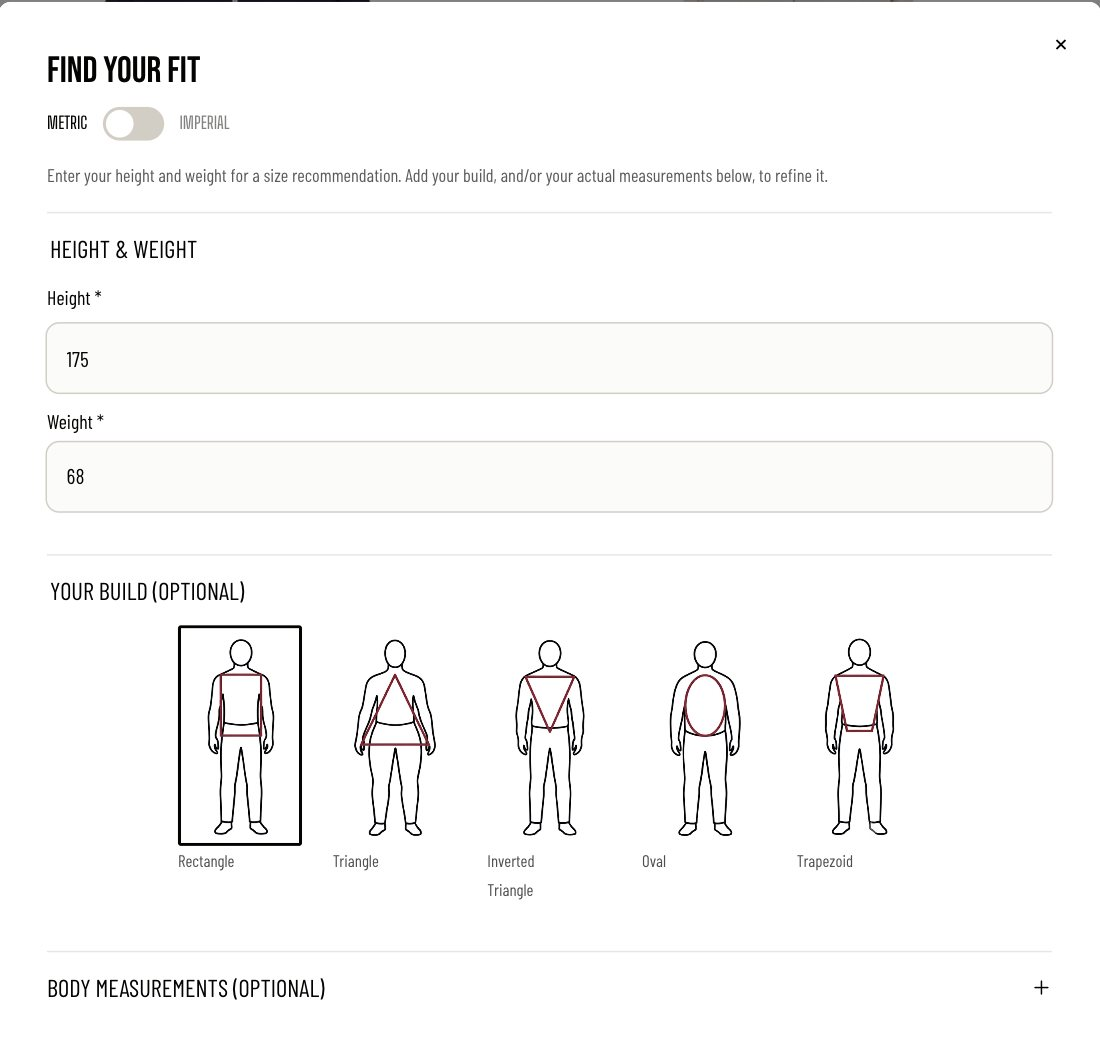
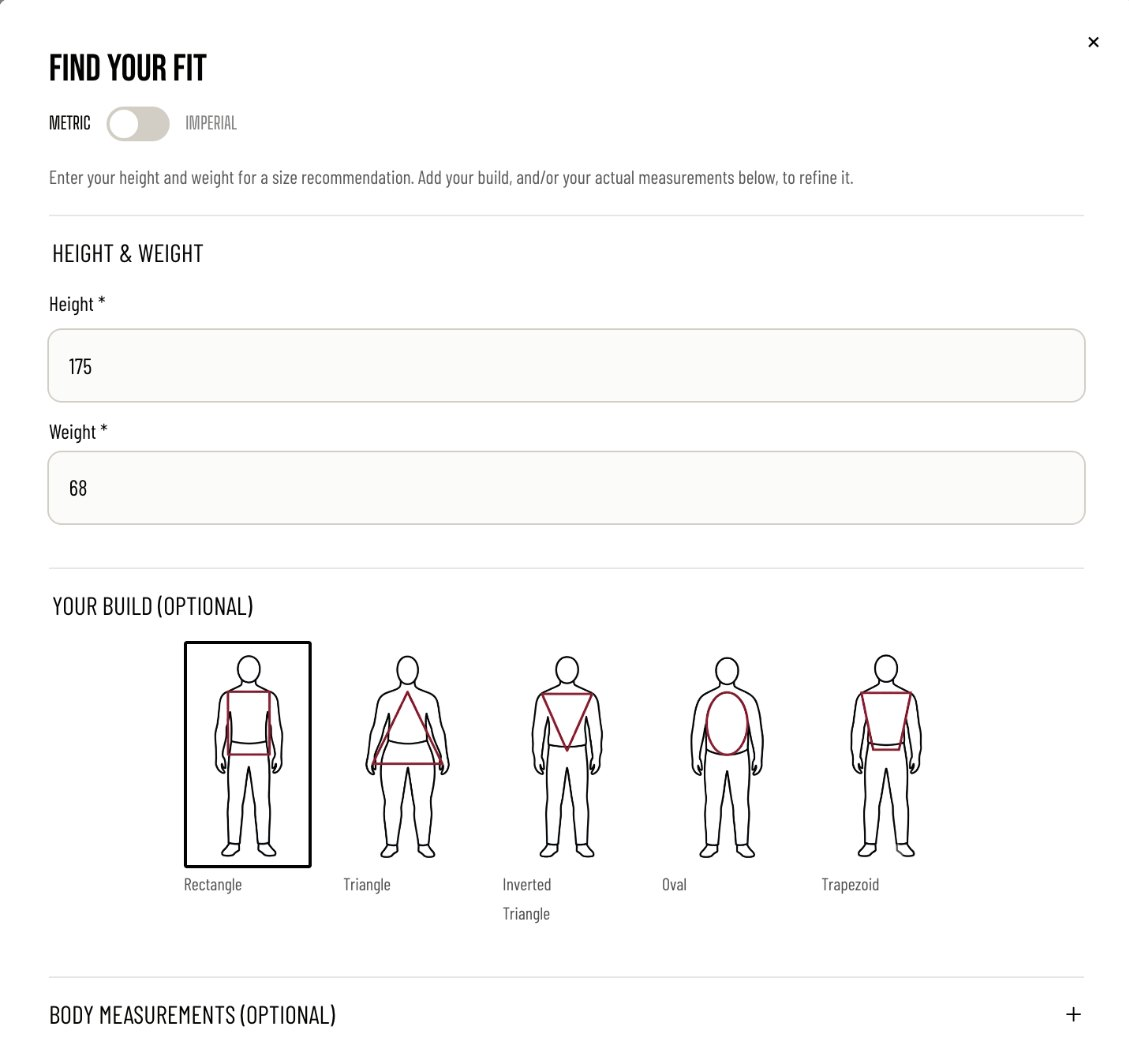
EVN: sharper uncropped store screens, clearer discount note; two-row action cards
Claude-Session: https://claude.ai/code/session_01MkzssbiWjDzMdy79T6ptKv

diff --git a/public/evn.html b/public/evn.html
@@ -83,6 +83,8 @@
   .shots figure.tall { aspect-ratio: 4 / 3.4; }
   .shots figure.tall img { height: 100%; object-fit: cover; object-position: top center; }
   .shots figure.picks img { object-position: left top; }
+  .shots figure.stage { background: #e4e4e2; display: flex; justify-content: center; padding: 28px 20px; }
+  .shots figure.stage img { width: auto !important; max-width: 100%; height: auto; max-height: 480px; border-radius: 6px; box-shadow: 0 14px 30px -14px rgba(0,0,0,.35); }
   .shots img.crop-pdp { aspect-ratio: 1180 / 520; object-fit: cover; object-position: 50% 62%; }
   .shots li > div { padding: 14px 16px 16px; }
   .shots b { font-weight: 500; font-size: 15px; }
@@ -205,7 +207,7 @@
       <div class="c-results-in">
         <div class="big"><b data-n="4">4</b><span>free-size sales in the sizing tool's first week</span></div>
         <div class="big"><b data-n="1st">1st</b><span>free-size sales in two months</span></div>
-        <p class="note">A discount ran the same week, so I hold it loosely.</p>
+        <p class="note">A 20% discount ran the same week, so it helped too.</p>
       </div>
     </aside>
   </section>
@@ -275,19 +277,19 @@
       <p class="big-p">The sizing tool shows up at four points, so the answer follows you from the homepage to checkout.</p>
       <ol class="shots">
         <li class="wide">
-          <figure><img src="assets/evn-home.jpg" alt="The Free Size Edit on the EVN Archive homepage" width="1568" height="445" loading="lazy"></figure>
+          <figure><img src="assets/evn-home.jpg" alt="The Free Size Edit on the EVN Archive homepage" width="2258" height="879" loading="lazy"></figure>
           <div><b>Homepage</b><p>The Free Size Edit sits near the top, with a prompt to find your fit.</p></div>
         </li>
-        <li>
-          <figure class="tall"><img src="assets/evn-finder.jpg" alt="The Find your fit pop-up asking for height, weight and build" width="1100" height="1040" loading="lazy"></figure>
+        <li class="wide">
+          <figure class="stage"><img src="assets/evn-finder.jpg" alt="The Find your fit pop-up asking for height, weight and build" width="1129" height="1064" loading="lazy"></figure>
           <div><b>Find your fit</b><p>Height and weight are enough to start. Build and measurements refine it.</p></div>
         </li>
-        <li>
-          <figure class="tall picks"><img src="assets/evn-collection.jpg" alt="The shop filtered to pieces recommended for you" width="1568" height="582" loading="lazy"></figure>
+        <li class="wide">
+          <figure><img src="assets/evn-collection.jpg" alt="The shop filtered to pieces recommended for you" width="2476" height="952" loading="lazy"></figure>
           <div><b>Your picks</b><p>The shop filters down to pieces recommended for you, and you can clear it anytime.</p></div>
         </li>
         <li class="wide">
-          <figure><img src="assets/evn.jpg" alt="The product page with the How it'll fit you section" width="1180" height="787" loading="lazy" class="crop-pdp"></figure>
+          <figure><img src="assets/evn-pdp.jpg" alt="The Aura Windbreaker product page with the How it'll fit you section above Add to cart" width="1530" height="700" loading="lazy"></figure>
           <div><b>Product page</b><p>Every product shows how it'll fit you, right above the button.</p></div>
         </li>
       </ol>
@@ -305,7 +307,7 @@
       </div>
       <div class="result">
         <b>Four free-size sales in the first week, the first in two months.</b>
-        <p>The discount ran the same week, so I hold the result loosely.</p>
+        <p>A 20% discount ran the same week, so I can't credit the sizing tool alone.</p>
       </div>
     </div>
   </section>

diff --git a/public/site.css b/public/site.css
@@ -222,3 +222,13 @@ button, input { font-weight: inherit; }
 .action-card :focus-visible { outline: 2px solid var(--ac-ink); outline-offset: 3px; }
 @media (prefers-color-scheme: dark) { :root:not([data-theme="light"]) .action-card { --ac-bg: #17573e; box-shadow: none; } }
 :root[data-theme="dark"] .action-card { --ac-bg: #17573e; box-shadow: none; }
+
+/* Case-page action card: headline across the full width, then the note on the left and buttons on the right */
+.c-cta.action-card .inner { grid-template-columns: minmax(0, 1fr) auto; align-items: end; gap: 18px 24px; }
+.c-cta.action-card h2 { grid-column: 1 / -1; max-width: none; }
+.c-cta.action-card .cta-p { margin: 0; max-width: 44ch; }
+.c-cta.action-card .btns { justify-self: end; flex-wrap: nowrap; }
+@media (max-width: 900px) {
+  .c-cta.action-card .inner { grid-template-columns: 1fr; }
+  .c-cta.action-card .btns { justify-self: start; flex-wrap: wrap; }
+}

diff --git a/public/okx.html b/public/okx.html
@@ -657,8 +657,8 @@ Switch to trading vernacular. Treat them as a peer.</pre>
       <div class="label"><span>Let's talk</span><span>Singapore · Seoul · anywhere</span></div>
       <div class="inner">
         <h2>Designing an AI product? Let's talk.</h2>
+        <p class="cta-p">I'd love to hear what you're working on.</p>
         <div class="btns"><a class="btn primary" href="mailto:mancini.tan@gmail.com">Say hello</a><a class="btn" href="#">Grab my résumé <svg viewBox="0 0 16 16" width="14" height="14" fill="none" stroke="currentColor" stroke-width="1.5"><path d="M4 12 12 4M5 4h7v7"/></svg></a></div>
-        <p class="cta-p">mancini.tan@gmail.com</p>
       </div>
     </div>
     <a class="panel c-nextcase" href="buildlr.html" aria-label="Next case: Designing complex forms">

diff --git a/public/buildlr.html b/public/buildlr.html
@@ -677,8 +677,8 @@
       <div class="label"><span>Let's talk</span><span>Singapore · Seoul · anywhere</span></div>
       <div class="inner">
         <h2>Got a form that keeps growing tiers?</h2>
+        <p class="cta-p">I'd love to hear what you're working on.</p>
         <div class="btns"><a class="btn primary" href="mailto:mancini.tan@gmail.com">Say hello</a><a class="btn" href="#">Grab my résumé <svg viewBox="0 0 16 16" width="14" height="14" fill="none" stroke="currentColor" stroke-width="1.5"><path d="M4 12 12 4M5 4h7v7"/></svg></a></div>
-        <p class="cta-p">mancini.tan@gmail.com</p>
       </div>
     </div>
     <a class="panel c-nextcase" href="ninjavan.html" aria-label="Next case: Service recovery at scale">

diff --git a/public/neuron.html b/public/neuron.html
@@ -526,8 +526,8 @@
       <div class="label"><span>Let's talk</span><span>Singapore · Seoul · anywhere</span></div>
       <div class="inner">
         <h2>Building tools for people on the ground?</h2>
+        <p class="cta-p">I'd love to hear what you're working on.</p>
         <div class="btns"><a class="btn primary" href="mailto:mancini.tan@gmail.com">Say hello</a><a class="btn" href="#">Grab my résumé <svg viewBox="0 0 16 16" width="14" height="14" fill="none" stroke="currentColor" stroke-width="1.5"><path d="M4 12 12 4M5 4h7v7"/></svg></a></div>
-        <p class="cta-p">mancini.tan@gmail.com</p>
       </div>
     </div>
     <a class="panel c-nextcase" href="evn.html" aria-label="Next case: E-commerce, end to end">

diff --git a/public/ninjavan.html b/public/ninjavan.html
@@ -547,8 +547,8 @@
       <div class="label"><span>Let's talk</span><span>Singapore · Seoul · anywhere</span></div>
       <div class="inner">
         <h2>Untangling a process across teams?</h2>
+        <p class="cta-p">I'd love to hear what you're working on.</p>
         <div class="btns"><a class="btn primary" href="mailto:mancini.tan@gmail.com">Say hello</a><a class="btn" href="#">Grab my résumé <svg viewBox="0 0 16 16" width="14" height="14" fill="none" stroke="currentColor" stroke-width="1.5"><path d="M4 12 12 4M5 4h7v7"/></svg></a></div>
-        <p class="cta-p">mancini.tan@gmail.com</p>
       </div>
     </div>
     <a class="panel c-nextcase" href="neuron.html" aria-label="Next case: Shift plans that stick">
